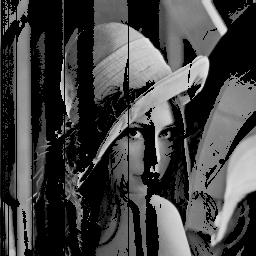
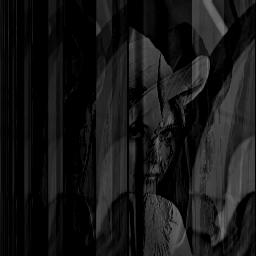
Mr Proper, algorithms apparently do what I asked for but give strange results

diff --git a/HaarTest/main.cpp b/HaarTest/main.cpp
@@ -4,47 +4,84 @@
 
 int main()
 {
-    QImage t("lenna");
-    int i, j, k;
-    QRgb tmp, tmp2;
+    QImage t("lenna"); // Image sur laquelle on travaille
+    int i, j, k; // Itérateurs
+    //QGray tmp, tmp2; // Pour les calculs
+    int tmp, tmp2;
+    int gray; // Pour la conversion
     int width = t.width();
     int height = t.height();
+
+    /*for(int i=0;i<256;++i)
+        t.setColor(i, qRgb(i,i,i));*/
 
     for(k = 0; k < height; k++) // Pour chaque ligne de l'image
     {
         for(j = width; j > 1; j /= 2)
         {
-            tmp2 = t.pixel(0,k);
+            tmp2 = qGray(t.pixel(0, k));
             for(i = 0; i < j; i += 2)
             {
                 tmp = tmp2;
-                t.setPixel(i/2, k, tmp/2 + t.pixel(i+1,k)/2);
-                tmp2 = t.pixel((i+j)/2,k);
-                if(tmp < t.pixel(i/2,k)) t.setPixel((i+j)/2, k, 0);
-                else t.setPixel((i+j)/2, k, tmp - t.pixel(i/2,k));
+
+                gray = tmp/2 + qGray(t.pixel(i+1, k))/2;
+                //std::cout << i/2 << " " << k << " :" << std::endl;
+                t.setPixel(i/2, k, gray); // Coefficient d'approximation
+                //std::cout << tmp << " " << qGray(t.pixel(i+1, k)) << " moyenne " << qGray(t.pixel(i/2, k)) << std::endl;
+
+                tmp2 = qGray(t.pixel((i+j)/2, k));
+                //std::cout << (i+j)/2 << " " << k << " :" << std::endl;
+
+                if(tmp < qGray(t.pixel(i/2, k))) // Cas où le résultat est négatif
+                {
+                    t.setPixel((i+j)/2, k, 0); // On ramène à 0
+                    //std::cout << tmp << " " << qGray(t.pixel(i/2, k)) << " difference " << qGray(t.pixel((i+j)/2, k)) << std::endl;
+                }
+                else // Cas général
+                {
+                    gray = tmp - qGray(t.pixel(i/2, k));
+                    t.setPixel((i+j)/2, k, gray); // Coefficient de détail
+                    //std::cout << tmp << " " << qGray(t.pixel(i/2, k)) << " difference " << qGray(t.pixel((i+j)/2, k)) << std::endl;
+                }
             }
         }
     }
 
-    t.save("lines.jpg", 0); // On sauvegarde le résultat
+    t.save("lines.jpg", 0);
 
     for(k = 0; k < width; k++) // Pour chaque colonne de l'image
     {
         for(j = height; j > 1; j /= 2)
         {
-            tmp2 = t.pixel(k,0);
+            tmp2 = qGray(t.pixel(k, 0));
             for(i = 0; i < j; i += 2)
             {
                 tmp = tmp2;
-                t.setPixel(k, i/2, tmp/2 + t.pixel(k,i+1)/2);
-                tmp2 = t.pixel(k,(i+j)/2);
-                if(tmp < t.pixel(k,i/2)) t.setPixel(k,(i+j)/2, 0);
-                else t.setPixel(k, (i+j)/2, tmp - t.pixel(k,i/2));
+
+                gray = tmp/2 + qGray(t.pixel(k, i+1))/2;
+                //std::cout << k << " " << i/2 << " :" << std::endl;
+                t.setPixel(k, i/2, gray); // Coefficient d'approximation
+                //std::cout << tmp << " " << qGray(t.pixel(k, i+1)) << " moyenne " << qGray(t.pixel(k, i/2)) << std::endl;
+
+                tmp2 = qGray(t.pixel(k, (i+j)/2));
+                //std::cout << k << " " << (i+j)/2 << " :" << std::endl;
+
+                if(tmp < qGray(t.pixel(k, i/2))) // Cas où le résultat est négatif
+                {
+                    t.setPixel(k, (i+j)/2, 0); // On ramène à 0
+                    //std::cout << tmp << " " << qGray(t.pixel(k, i/2)) << " difference " << qGray(t.pixel(k, (i+j)/2)) << std::endl;
+                }
+                else // Cas général
+                {
+                    gray = tmp - qGray(t.pixel(k, i/2));
+                    t.setPixel(k, (i+j)/2, gray); // Coefficient de détail
+                    //std::cout << tmp << " " << qGray(t.pixel(k, i/2)) << " difference " << qGray(t.pixel(k, (i+j)/2)) << std::endl;
+                }
             }
         }
     }
 
-    t.save("final.jpg", 0); // On sauvegarde le résultat
+    t.save("final.jpg", 0); // On sauvegarde le résultat*/
 
     return 0;
 }
